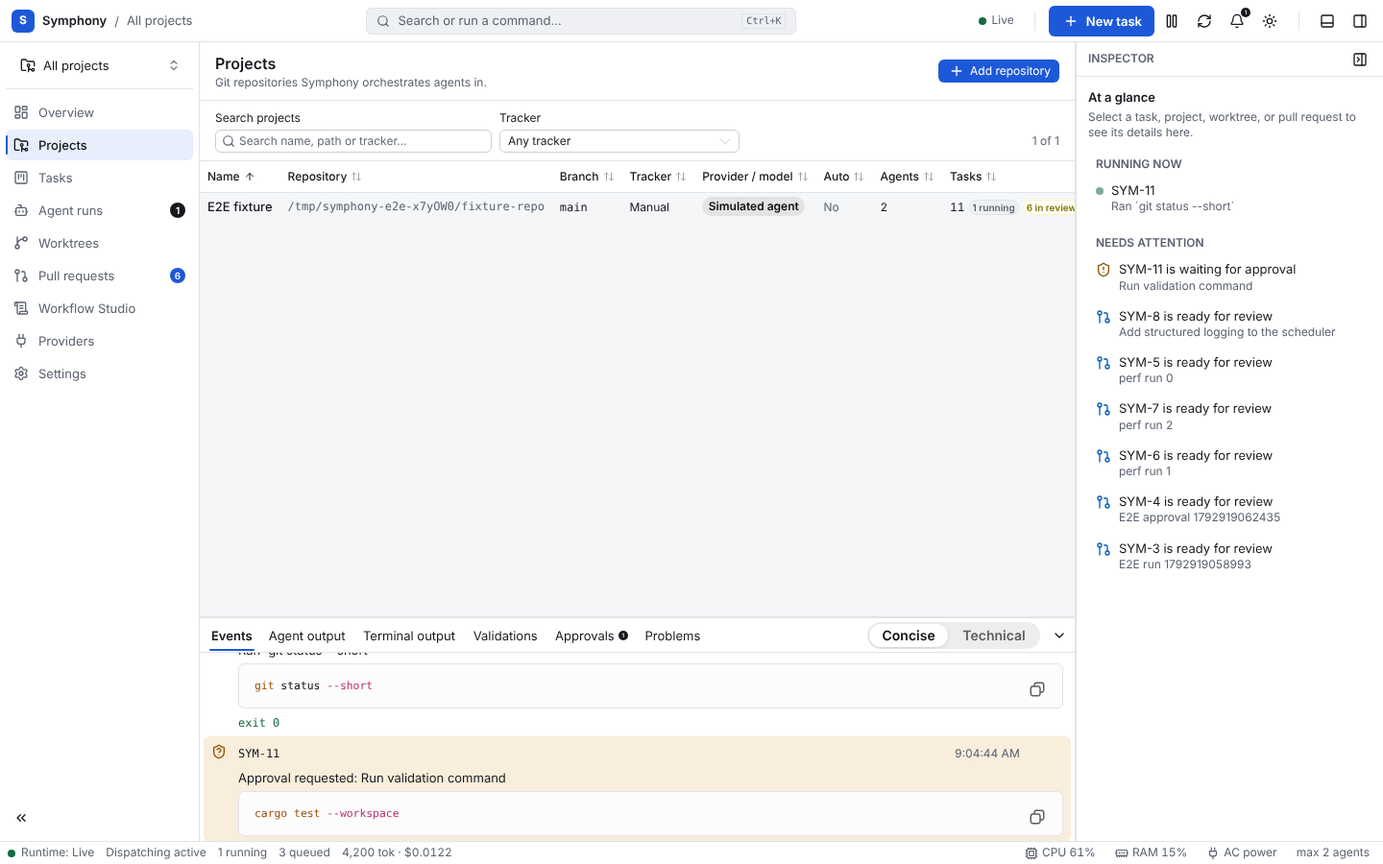
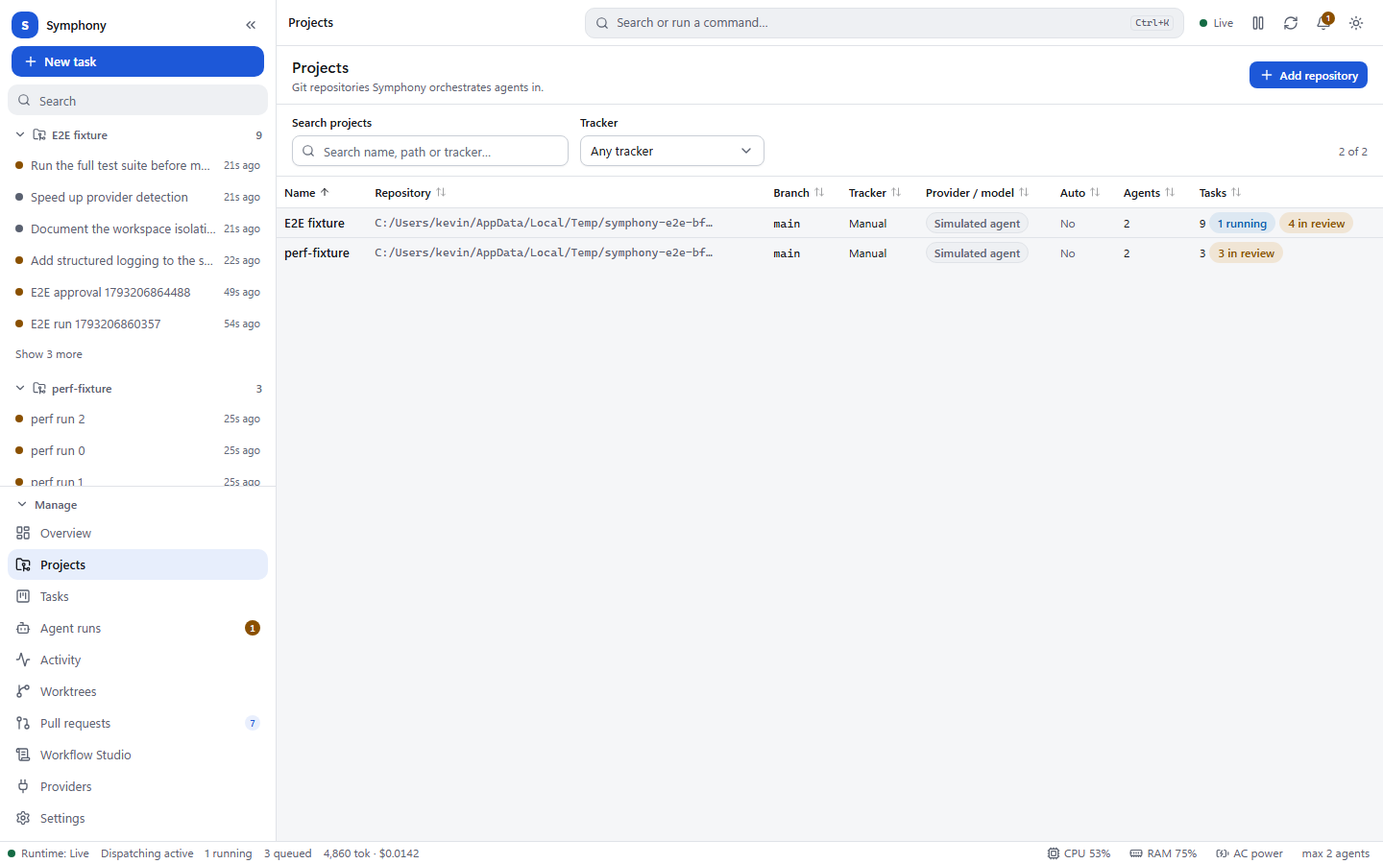
Document the new UI architecture and refresh screenshots
Rewrite the design-system guide (one component system, container-query
layout rules), update the architecture, contributing and README notes and the
changelog, and regenerate the documentation screenshots.

diff --git a/docs/DESIGN_SYSTEM.md b/docs/DESIGN_SYSTEM.md
@@ -1,18 +1,20 @@
 # Symphony Design System
 
 The design system lives in `packages/ui` and is shared by the desktop app and the mobile companion.
-It combines three component libraries under **one token source** and **one owner per component category**.
+It is **one component system**: shadcn/ui primitives (Radix UI + Tailwind CSS v4) driven by **one token source**.
+There is no second control library on the desktop: Fluent UI and the OpenAI Apps SDK UI were removed because
+three libraries with different sizing, breakpoints and CSS layers produced overlapping and clipped controls.
 
 ```
 packages/ui/src/
   tokens/tokens.css        single source of colour, typography, radius, density tokens
-  theme/fluentThemes.ts    Fluent UI v9 themes whose values reference the CSS tokens
-  providers/               SymphonyDesignProvider (theme, density, motion, locale, toaster)
-  primitives/              shadcn/ui components (generated with the shadcn CLI)
-  ai/                      AI-native components built on OpenAI Apps SDK UI
-  feedback/                confirm dialog, error state, loading rows, toasts, live announcer
+  providers/               SymphonyDesignProvider (theme, density, motion, locale, tooltips, toaster)
+  primitives/              shadcn/ui-style components on Radix UI (button, input, select, dialog, tabs, …)
+  ai/                      AI-native components (approval banner, event stream card, readiness card, badges)
+  feedback/                confirm dialog, error state, loading rows, toasts (sonner), live announcer
   data-display/            metric tile, key/value list, time & duration, virtual list, data table, telemetry
   layouts/                 page header, panel, status dot
+  legacy.tsx               Fluent theme bridge used only by the mobile companion
   i18n.ts                  strings owned by shared components (EN/SV)
   index.ts                 public entry point
 ```
@@ -32,27 +34,19 @@ packages/ui/src/
 | `--accent`, `--accent-hover`, `--accent-foreground`, `--accent-subtle` | Restrained blue for active actions |
 | `--destructive`, `--warning`, `--success`, `--info` (+ `-subtle`) | Semantic status only |
 | `--ring` | Focus ring |
+| `--overlay` | Modal and sheet scrim |
 | `--code-background`, `--diff-add`, `--diff-remove` | Code and diff surfaces |
-| `--font-sans` | Segoe UI Variable Text → Segoe UI → system |
-| `--font-display` | Segoe UI Variable Display |
-| `--font-mono` | Cascadia Code → Cascadia Mono → Consolas |
-| `--radius` | 6 px base radius |
+| `--font-sans`, `--font-display`, `--font-mono` | Segoe UI Variable stack, Cascadia mono |
+| `--radius` | 8 px base radius |
 | `--density-*` | Row/control height, gaps and base font size |
 
-The same variables feed every library:
+Tailwind CSS v4 reads them through `@theme inline` (`bg-surface`, `text-muted-foreground`, `border-border`,
+`bg-warning-subtle`, `font-mono`, `h-row`, …). Feature code uses only these classes; hard-coded hex or palette
+colours are not allowed outside `tokens.css`. The shadcn semantic names (`--card`, `--popover`, `--primary`,
+`--input`, `--ring`) are aliases of the Symphony tokens.
 
-- **Tailwind CSS v4** — `@theme inline` maps them to utilities (`bg-surface`, `text-muted-foreground`,
-  `border-border`, `bg-warning-subtle`, `font-mono`, `h-row`, …). Feature code uses only these classes;
-  hard-coded hex or palette colours are not allowed outside `tokens.css`.
-- **shadcn/ui** — the shadcn semantic names (`--card`, `--popover`, `--primary`, `--input`, `--ring`) are
-  aliases of the Symphony tokens.
-- **Fluent UI v9** — `fluentThemes.ts` derives brand ramps with `createDarkTheme/createLightTheme` and then
-  points surface, text, stroke, brand and status tokens at `var(--…)`. Fluent therefore switches theme
-  together with everything else and portals inherit it (`applyStylesToPortals`).
-- **OpenAI Apps SDK UI** — `applyDocumentTheme(theme)` sets the same `data-theme` attribute the tokens use.
-
-The palette is a graphite neutral scale with a single restrained blue accent. Semantic green, amber and
-red are used for status only. No gradients or glass effects are used; elevation is a subtle border plus
+The palette is a graphite neutral scale with a single restrained blue accent. Semantic green, amber and red are
+used for status only. No gradients or glass effects are used; elevation is a subtle border plus
 `--shadow-elevated` on floating surfaces.
 
 ## 2. `SymphonyDesignProvider`
@@ -63,89 +57,95 @@ red are used for status only. No gradients or glass effects are used; elevation 
 </SymphonyDesignProvider>
 ```
 
-- Resolves `system` against `prefers-color-scheme` (Windows light/dark setting) and follows live changes.
+- Resolves `system` against `prefers-color-scheme` and follows live changes.
 - Writes `data-theme`, `data-density`, `data-motion` and `lang` on `<html>`.
-- Provides the matching Fluent theme and wraps children in `AppsSDKUIProvider`.
-- Mounts the single app-wide Fluent `Toaster`; `useNotify()` dispatches toasts.
+- Provides the tooltip context and mounts the single app-wide `sonner` toaster; `useNotify()` dispatches toasts.
 - Exposes `useDesign()` (resolved theme, density, reduced motion, locale) and `useUiStrings()`.
 
-Reduced motion: when the OS requests it (or `motion="reduced"`), CSS animations and transitions are
-neutralised globally by `tokens.css`. Components avoid JavaScript animation loops.
+Reduced motion: when the OS requests it (or `motion="reduced"`), CSS animations and transitions are neutralised
+globally by `tokens.css`.
 
 Density: **compact** (default, IDE-like: 28 px rows, 13 px text) and **comfortable** (36 px rows, 14 px text).
-The density font is applied to `<body>`, not `<html>`: the root font size stays at 16 px so `rem`-based
-spacing (Tailwind, Apps SDK) matches Fluent's px-based controls. Tailwind's `text-sm`/`text-xs` and Fluent's
-`fontSizeBase300`/`fontSizeBase200` all resolve to `--density-font`/`--density-font-xs`, so body and caption
-text are the same size whichever library renders them.
+Tailwind's `text-sm`/`text-xs` resolve to `--density-font`/`--density-font-xs`.
 
 ### Cascade layers
 
-Apps SDK UI ships component CSS in `@layer components`. Each app imports its global stylesheet **first**
-(`main.tsx`) and that stylesheet starts with `@layer theme, base, components, utilities;`, so the layer order
-is fixed before any library CSS is injected. Otherwise `components` can be ordered below Tailwind's preflight
-(`base`) and Apps SDK buttons lose their padding, radius and colours.
+The app's global stylesheet starts with `@layer theme, base, components, utilities;` and imports Tailwind and
+`tokens.css`. There is no third-party component CSS, so the layer order cannot be disturbed.
 
-## 3. Component ownership
+## 3. Layout rules (these prevent the overlap and clipping bugs)
 
-Exactly one library owns each interaction category. Competing implementations are not rendered.
+1. **Container queries, not viewport breakpoints.** A form or table inside a side sheet or a resizable pane is
+   narrower than the window. Use `@container` on the parent and `@md:`/`@3xl:` variants (`FieldGrid`,
+   `DataTable`, settings sections). `sm:`/`md:`/`lg:` are only for shell-level decisions.
+2. **Controls never impose a minimum width.** `Input`, `Select`, `Combobox` and `MultiSelect` are `w-full min-w-0`;
+   the grid cell decides their width.
+3. **One scroller per region.** `DataTable` owns the only scroll container of a table. Low-priority columns hide by
+   the table's own width (`meta: { className: "hidden @3xl:table-cell" }`) instead of scrolling sideways.
+4. **Detail lives in a `Sheet`, not beside a table.** Master/detail views (Projects) open the detail in a side
+   sheet so the list keeps its full width.
+5. **Text wraps or truncates inside its box.** Header meta rows use `flex-wrap`, never `shrink-0`.
 
-| Category | Owner | Components |
-| --- | --- | --- |
-| App chrome & commands | Fluent UI v9 | `Toolbar`, `ToolbarButton`, `Button`, `Menu`/`MenuButton`, `CounterBadge`, `Divider` |
-| Tooltips | Fluent UI v9 | `Tooltip` (Apps SDK `Tooltip` is not used) |
-| Dialogs & confirmations | Fluent UI v9 | `Dialog` everywhere, `ConfirmDialog`; the command palette hosts shadcn `Command` inside a Fluent `Dialog` (shadcn `dialog` was intentionally removed) |
-| Forms | Fluent UI v9 | `Field`, `Input`, `Textarea`, `Dropdown`, `Combobox`, `Switch`, `SpinButton`, `Checkbox`, `RadioGroup` |
-| Status & progress | Fluent UI v9 | `MessageBar`, `Spinner`, `ProgressBar`, toasts |
-| Tabs | Fluent UI v9 | `TabList`/`Tab` |
-| Workspace layout | shadcn/ui | `Resizable*` (react-resizable-panels v4, persisted with `useDefaultLayout`) |
-| Command palette | shadcn/ui | `Command*` (cmdk) |
-| Context menus | shadcn/ui | `ContextMenu*` (right-click on rows and cards) |
-| Data tables | shadcn/ui + TanStack | `Table` primitives + `DataTable` (sorting, keyboard activation, windowing) |
-| Scroll areas, sheets, skeletons | shadcn/ui | `ScrollArea`, `Sheet`, `Skeleton` |
-| AI-native surfaces | OpenAI Apps SDK UI | `AiApprovalBanner`, `AiEventStreamCard`, `MergeReadinessCard`, `TaskStatusBadge`, `PhaseBadge`, `ProviderBadge`, `ApprovalStatusBadge`, `AiEmptyView`, `PromptComposerBox`, `LogModeSwitch`, `StreamingText`; `CodeBlock`, `Markdown`, `CopyButton`, `Badge`, `Alert`, `ShimmerText`, `EmptyMessage`, `SegmentedControl`, `Textarea` used inside them |
+## 4. Components
 
-shadcn components are installed with the shadcn CLI into `packages/ui/src/primitives` using
-`packages/ui/components.json` (style `new-york`, Tailwind v4 CSS variables, lucide icons). To add one:
+| Category | Components |
+| --- | --- |
+| Actions | `Button` (default, secondary, outline, ghost, subtle, destructive, link; sm/default/lg/icon), `ToggleGroup` (segmented control), `DropdownMenu`, `ContextMenu` |
+| Forms | `Field` (label, hint, error, `group` for radio groups), `FieldGrid`, `FormSection`, `Input` (with `icon`), `Textarea`, `Select`, `Combobox`, `MultiSelect`, `Switch`, `Checkbox`, `RadioGroup`/`RadioOption`, `Label` |
+| Overlays | `Dialog`, `ConfirmDialog` (alert dialog), `Sheet`, `Popover`, `Tooltip`/`Hint`, command palette (`Command`, cmdk) |
+| Feedback | `Alert`, `Badge`, `Spinner`, `Progress`, `Skeleton`, toasts |
+| Navigation | `Tabs` |
+| Data | `Table`, `DataTable` (TanStack Table + virtualization), `MetricTile`, `KeyValueList`, `VirtualList` |
+| Workspace | `ResizablePanelGroup` (react-resizable-panels), `ScrollArea`, `PageHeader`, `Panel` |
+| AI surfaces | `AiApprovalBanner`, `AiEventStreamCard`, `MergeReadinessCard`, `TaskStatusBadge`, `PhaseBadge`, `ProviderBadge`, `ApprovalStatusBadge`, `AiEmptyView`, `PromptComposerBox`, `LogModeSwitch`, `StreamingText`, `CodeBlock`, `Markdown` |
+
+`Select` forwards the `id`/`aria-*` that `Field` injects to its trigger (Radix `Select.Root` renders no element),
+so a field label always names the select. `Hint` wraps one child with a tooltip; `asLabel` also uses a string
+label as the child's accessible name (icon-only buttons).
+
+New shadcn components are added with the shadcn CLI into `packages/ui/src/primitives` using
+`packages/ui/components.json` (style `new-york`, Tailwind v4 CSS variables, lucide icons):
 
 ```bash
 cd packages/ui && pnpm dlx shadcn@latest add <component>
 ```
 
-then make sure generated imports use `../lib/utils` and that it does not duplicate a Fluent-owned category.
+Then make sure generated imports use `../lib/utils` and use only Symphony tokens.
 
-Apps SDK UI is used as a **component library only**; nothing depends on ChatGPT host globals.
-
-## 4. AI components
+## 5. AI components
 
 | Component | Purpose |
 | --- | --- |
 | `AiApprovalBanner` | Shows a pending command/file-change approval with the four runtime decisions (approve once, approve for session, decline, abort turn). Locks itself while a decision is in flight to prevent duplicate submissions. |
-| `ConfirmDialog` (feedback) | Fluent alert dialog for destructive actions. Fires `onConfirm` once per opening (a second click in the same frame is ignored) and stays locked while `pending`. |
-| `AiEventStreamCard` | One timeline entry. Uses `formatAgentEvent` to render agent messages (Markdown), command executions (code + exit code + output), file changes (paths + diffs), tool calls, approvals, errors and lifecycle events. Concise vs technical mode (event types, raw JSON-RPC payload). Memoized per event so streaming never re-renders existing entries. |
+| `ConfirmDialog` (feedback) | Alert dialog for destructive actions. Fires `onConfirm` once per opening and stays locked while `pending`. |
+| `AiEventStreamCard` | One timeline entry. Uses `formatAgentEvent` to render agent messages (Markdown), command executions (code + exit code + output), file changes (paths + diffs), tool calls, approvals, errors and lifecycle events. Concise vs technical mode. Memoized per event so streaming never re-renders existing entries. |
 | `MergeReadinessCard` | Evidence-backed 1–5 score with CI / validation / conflicts / security / reviewed comments breakdown, blockers and evidence. Approval is a separate explicit action and never merges. |
-| `TaskStatusBadge`, `PhaseBadge`, `ProviderBadge` | Localized status chips; active phases shimmer (static under reduced motion). |
+| `TaskStatusBadge`, `PhaseBadge`, `ProviderBadge` | Localized status chips; active phases pulse (static under reduced motion). |
 | `AiEmptyView`, `PromptComposerBox`, `LogModeSwitch`, `StreamingText` | Agent empty states, prompt composition (Ctrl+Enter submits), log verbosity, live activity text. |
 
-## 5. Accessibility
+`Markdown` renders GitHub-flavoured Markdown with `react-markdown` (raw HTML is never rendered); `CodeBlock`
+has a named copy button and scrolls inside itself.
+
+## 6. Accessibility
 
 - Focus is always visible (`:focus-visible` ring on `--ring`).
 - Text tokens (`--foreground`, `--muted-foreground`, `--subtle-foreground` and the status colours) keep
-  4.5:1 against every surface of their theme, including their own `-subtle` tint. The Apps SDK's status
-  text and light code colours are mapped onto them through the SDK's own theme variables (`tokens.css`).
-- Icon-only buttons carry labels through Fluent `Tooltip relationship="label"` (on the button itself,
-  not a wrapper) or `aria-label`. Use `SdkCodeBlock`/`SdkMarkdown` from this package, not the SDK's
-  directly: their copy buttons are named.
-- Scroll containers without their own controls (diffs, logs, `VirtualList`) are focusable.
-- Audited with axe-core (WCAG 2.1 A/AA) on every view, light and dark. Known, accepted reports:
-  Fluent's focus sentinels (`data-tabster-dummy`, `aria-hidden-focus`) and CodeMirror's scroller,
-  whose editable content is the focus target.
-- Dialog focus management comes from Fluent `Dialog`; the palette is keyboard-first (cmdk).
+  4.5:1 against every surface of their theme, including their own `-subtle` tint.
+- Icon-only buttons carry an `aria-label` (use `Hint ... asLabel`).
+- Scroll containers without their own controls (diffs, logs, `VirtualList`, code blocks) are focusable.
+- Dialog focus management comes from Radix; the palette is keyboard-first (cmdk).
+- Tabs activate on mouse-down, focus or a plain click (`TabsTrigger` focuses on click).
 - Data tables expose `aria-sort`, rows are focusable and activate with Enter/Space.
 - `LiveAnnouncer` provides polite/assertive live regions; toasts announce with matching politeness.
 - Colour is never the only signal: status chips have text, readiness has a numeric score and `role="meter"`.
 
-## 6. Localization
+## 7. Localization
 
 Shared strings live in `packages/shared-types/src/i18n` (`en`, `sv`). Components in this package use
 `useUiStrings()`. Feature modules declare their own catalogues with `defineMessages({ en, sv })`, where the
 Swedish catalogue must have exactly the English shape (enforced by TypeScript).
+
+## 8. Mobile companion
+
+`apps/mobile` still renders some Fluent UI v9 controls. It wraps its tree in `FluentBridge` from
+`@symphony/ui/legacy`, which maps the same tokens onto a Fluent theme. The desktop app does not import Fluent.

diff --git a/docs/UI_ARCHITECTURE.md b/docs/UI_ARCHITECTURE.md
@@ -18,7 +18,7 @@
 │      ├─ Batcher (100 ms) → event ring buffer (zustand) + targeted TanStack Query invalidation   │
 │      └─ fallback polling while the stream is down; throttled while the window is hidden        │
 │ TanStack Query cache = durable server state      zustand uiStore = presentation preferences    │
-│ DesktopShell (layouts/) + feature views (features/*) + design system (@symphony/ui)            │
+│ DesktopShell (layouts/) + feature views (features/*) + design system (@symphony/ui, shadcn)     │
 └───────────────────────────────────────────────────────────────────────────────────────────────┘
 ```
 
@@ -107,19 +107,20 @@ on broadcast lag), avoiding an HTTP connection.
 ```
 apps/desktop/src/
   app/          App, AppProviders, AppRouter (hash routes, lazy views), RuntimeGate, PreferencesBridge, messages
-  layouts/      DesktopShell, Sidebar, CommandBar, ContextInspector, ActivityDrawer, StatusBar
+  layouts/      DesktopShell, Sidebar, ThreadList, TopBar, StatusBar
   runtime/      RuntimeProvider, eventStore (ring buffer), invalidation map
   lib/          queries (TanStack hooks), queryKeys, i18n helpers
   store/        uiStore (persisted presentation state), safeStorage
   hooks/        useGlobalShortcuts, useFocusedTaskId
   components/   ErrorBoundary, DiffViewer
-  features/     overview · projects · tasks · agents · execution · worktrees · reviews · workflows ·
-                providers · settings · onboarding · command-palette
+  features/     composer · activity · overview · projects · tasks · agents · execution · worktrees · reviews ·
+                workflows · providers · settings · onboarding · command-palette
   test/         renderWithProviders (in-memory runtime), fixtures, setup
 ```
 
-Routes: `/overview`, `/projects[/:projectId]`, `/tasks`, `/runs`, `/runs/:taskId`, `/worktrees`,
-`/reviews[/:reviewId]`, `/workflow`, `/providers`, `/settings`. The last route is restored on launch.
+Routes: `/` (prompt composer), `/overview`, `/projects[/:projectId]`, `/tasks`, `/runs`, `/runs/:taskId`
+(a task as a thread), `/activity`, `/worktrees`, `/reviews[/:reviewId]`, `/workflow`, `/providers`, `/settings`.
+The app always opens on the composer.
 
 The app uses a data router (`createHashRouter`; tests use `createMemoryRouter`), which lets a view block
 navigation while it holds unsaved edits (`useBlocker` in Workflow Studio). Every feature view is a lazily
@@ -130,10 +131,12 @@ loaded chunk; the CodeMirror editor is a separate lazy chunk loaded only by Work
 | View | Highlights |
 | --- | --- |
 | Overview | Metrics from the snapshot/tasks, live sessions, pending approvals (decide inline), persisted + live activity. |
-| Projects | Repository list/detail/edit, guided Add repository (native folder picker in Tauri, runtime validation, checkout-root resolution), delete with confirmation (409 while running). |
+| Projects | Full-width repository table (columns drop by container width) with the selected project's settings in a side sheet, guided Add repository (native folder picker in Tauri, runtime validation, checkout-root resolution), delete with confirmation (409 while running). |
 | Tasks | 9-column Kanban (dnd-kit, keyboard + menu moves validated by the shared state machine before any request) and a data table; New task dialog (`auto_start`). |
 | Agent runs | One row per task by precedence (live > approval > retrying > queued > recent finished), grouping by status/provider/project, capability-gated actions. |
-| Live execution | Three resizable panels: context, live timeline (concise/technical), changes/validation/tool calls/usage/PR. The *Tool calls* tab pages the task's tool-call history (`GET /tasks/{id}/tool-calls`), refreshed only by events that can start or finish a tool call. |
+| Home / composer | Large prompt box with chips: repository (shows the base branch), provider + model, priority, labels, *Run now* / *Add to queue* (`auto_start`). The first line of the prompt is the title, the whole prompt the description; the identifier is generated. Recent threads below. The same composer opens in a dialog (Ctrl+N) from other views. |
+| Thread (`/runs/:taskId`) | Prompt, merged persisted + live timeline (concise/technical, kind filters, tail-following), pinned approvals, inline follow-up box (`POST /tasks/{id}/continue`, only after a run ended, 20 000 character limit) and a run-details panel (Changes, Validation, Tool calls, Usage, Pull request, Context). Wide windows dock the panel, narrow ones open it as a sheet. |
+| Activity | Cross-task events, scoped agent/terminal output, validations, approvals and problems (the former bottom dock). |
 | Worktrees | Worktree table with dirty state, diff viewer, "Open in Explorer" only in the embedded desktop host; no delete action. |
 | Pull requests | Evidence-backed readiness (1–5), blockers, diff with review comments; "Record human approval" is a separate confirmed action and never merges. |
 | Workflow Studio | CodeMirror 6 (Markdown + YAML front matter), debounced runtime validation with located diagnostics, effective config, prompt preview, Ctrl+S, revert, external-change detection, unsaved-changes guard. |
@@ -142,19 +145,19 @@ loaded chunk; the CodeMirror editor is a separate lazy chunk loaded only by Work
 
 ## 6. Shell
 
-- **Command bar** (below the native title bar — native decorations are kept for reliable drag, snap,
-  maximize and system controls): project breadcrumb, palette launcher, runtime connection status
-  (derived from the real stream/state), new task, pause/resume dispatching, refresh, approvals, theme,
-  drawer/inspector toggles.
-- **Sidebar**: collapsible (persisted), tooltips when collapsed, active indicator, project switcher, badges.
-- **Context inspector**: right resizable/collapsible panel for the selected task/project/worktree/PR.
-- **Activity drawer**: bottom dock with Events, Agent output, Terminal output (command executions of the
-  focused task — no arbitrary shell), Validations, Approvals and Problems.
+- **Sidebar** (collapsible, persisted): *New task*, a search field, tasks grouped by project as **threads**
+  (status dot, approval mark, relative time, collapsible groups) and a *Manage* group with the other views.
+  Collapsed it is an icon rail with tooltips.
+- **Top bar** (below the native title bar - native decorations are kept for reliable drag, snap, maximize and
+  system controls): current view, palette launcher, runtime connection status (derived from the real
+  stream/state), pause/resume dispatching, refresh, approvals popover, theme.
 - **Status bar**: connection, scheduler, counts, tokens/cost and hardware telemetry from the runtime
   snapshot (refreshed by events and every 15 s while visible; it never probes the GPU).
+- There are no nested resizable panel groups at shell level; each view owns its layout (resizable panes only
+  where a view needs them, e.g. Workflow Studio, Pull requests).
 
-Keyboard: Ctrl+K palette · Ctrl+N new task · Ctrl+P projects · Ctrl+R refresh data · Ctrl+B sidebar ·
-Ctrl+J activity drawer · Ctrl+I inspector.
+Keyboard: Ctrl+K palette - Ctrl+N new task - Ctrl+P projects - Ctrl+R refresh data - Ctrl+B sidebar -
+Ctrl+J run-details panel - F1 shortcut help.
 
 ## 7. State rules
 

diff --git a/CHANGELOG.md b/CHANGELOG.md
@@ -10,6 +10,17 @@ one. The HTTP API is versioned separately (`API_VERSION`, see `CONTRIBUTING.md`)
 
 ### Added
 
+- **Thread-first desktop UI (Codex-style)**: the app opens on a prompt composer. One prompt box plus chips
+  for repository (with its base branch), provider and model (with install state), priority, labels and
+  *Run now* / *Add to queue* creates a task; the first line becomes the title and the whole prompt the
+  description. Tasks appear in the sidebar as threads grouped by project (status dots, approval marks,
+  search). A thread shows the prompt, the live timeline, pending approvals, an inline follow-up box
+  (continue a finished run in the same worktree) and a run-details panel (changes, validation, tool
+  calls, usage, pull request, context). The previous Overview, Projects, Tasks, Agent runs, Worktrees,
+  Pull requests, Workflow Studio, Providers and Settings views are kept under *Manage*, plus a new
+  *Activity* view with the former bottom dock (events, agent/terminal output, validations, approvals,
+  problems).
+
 - **Model discovery**: provider detection asks the installed CLI which models it offers (Codex
   `model/list`, `opencode models`) instead of relying on a built-in list, cached for 30 minutes per
   binary and version (a forced refresh re-reads it). A configured provider default that the CLI no
@@ -61,6 +72,12 @@ one. The HTTP API is versioned separately (`API_VERSION`, see `CONTRIBUTING.md`)
 
 ### Fixed
 
+- Project settings: the Provider dropdown no longer overlaps the Model field, the form no longer shows a
+  stray horizontal scrollbar, and the project table is no longer clipped next to the detail pane
+  (`min-width: 250px` controls in a viewport-breakpoint grid, nested scrollers, fixed-width detail pane).
+- The Concise / Technical log toggle renders as a proper segmented control instead of two mashed labels.
+- A task's header badges wrap under a long title instead of running under the action buttons.
+
 - The build was broken on `main` after two dependency updates: the access token generator now uses the
   `rand` 0.10 API, and the API client generator is back on TypeScript 6 (`@hey-api/openapi-ts` needs
   its compiler API); `pnpm generate:api` now says so instead of crashing when another major is installed.
@@ -84,6 +101,17 @@ one. The HTTP API is versioned separately (`API_VERSION`, see `CONTRIBUTING.md`)
 - `ctutils` 0.4.3 → 0.4.4 (RUSTSEC-2026-0385, non-constant-time comparisons; pulled in by `digest`).
 
 ### Changed
+
+- **One component system on the desktop**: Fluent UI and the OpenAI Apps SDK UI are removed from the
+  desktop app and the shared UI package in favour of shadcn/ui (Radix) with Tailwind tokens, so controls,
+  dialogs and tabs share one sizing, one set of breakpoints and one CSS layer order. Markdown uses
+  `react-markdown` directly. The mobile companion keeps Fluent through `@symphony/ui/legacy`.
+- **Layouts are container-driven**: forms, tables and cards size from their own container (`@container`)
+  instead of the viewport. The project table hides low-priority columns by its width and project settings
+  open in a side sheet.
+- The right-hand inspector and the permanent bottom dock are gone; their content lives in the thread's
+  run-details panel and in the Activity view. Keyboard shortcut `Ctrl+J` toggles the run-details panel
+  (`Ctrl+I` is no longer used).
 
 - The default model is empty by default, meaning each provider's own default; making a provider the
   global default no longer copies another provider's model. Cost estimates use current per-family prices

diff --git a/README.md b/README.md
@@ -21,9 +21,9 @@ Symphony Desktop is a local-first autonomous coding orchestration platform inspi
   - Canonical path containment and symlink escape prevention.
   - Per-task Git worktree creation (`git worktree add -B`), dirty-worktree guards, lifecycle hooks (`after_create`, `before_run`, `after_run`, `before_remove`), and automated validation command execution.
 - **Symphony Desktop 2.0 UI (`apps/desktop`, `packages/ui`)** — see [docs/UI_ARCHITECTURE.md](./docs/UI_ARCHITECTURE.md) and [docs/DESIGN_SYSTEM.md](./docs/DESIGN_SYSTEM.md):
-  - Modular desktop shell: command bar, collapsible sidebar with project switcher, Ctrl+K command palette, resizable context inspector, bottom activity drawer (events, agent/terminal output, validations, approvals, problems) and a status bar with live hardware telemetry.
+  - Thread-first desktop shell, modelled on the ChatGPT Codex app: a prompt composer on the home screen (repository and base branch, provider/model, priority, labels, run now or queue), tasks listed as threads grouped by project, each thread with the prompt, live timeline, inline approvals, follow-up box and a run-details panel (changes, validation, tool calls, usage, pull request, context). Ctrl+K command palette, an Activity view (events, agent/terminal output, validations, approvals, problems) and a status bar with live hardware telemetry.
   - Views: Overview, Projects (guided Add Repository with native folder picker), Tasks (9-state Kanban with state-machine-validated drag and drop + data table), Agent Runs (control center), Live Execution workspace, Worktrees, Pull Request Review Center (1–5 merge readiness), Workflow Studio (CodeMirror + runtime validation/preview), Providers, Settings.
-  - One token source shared by **Fluent UI React v9** (Windows-native controls, dialogs, menus, forms), **shadcn/ui** (resizable panels, command palette, data tables, context menus) and **OpenAI Apps SDK UI** (AI-native approval, event, markdown, code and readiness surfaces); dark/light/system themes, compact/comfortable density, reduced motion, English and Swedish.
+  - One component system, **shadcn/ui on Radix UI with Tailwind v4**, driven by one token source (controls, dialogs, sheets, menus, data tables, command palette, AI-native approval, event, markdown, code and readiness surfaces); dark/light/system themes, compact/comfortable density, reduced motion, English and Swedish.
   - OpenAPI 3.1 document generated from the Axum routes (`utoipa-axum`), TypeScript types and SDK generated from it with Hey API; CI checks freshness and breaking changes. Authenticated SSE streaming with resume, dedupe and reconnection.
 - **Hardware-Aware Windows 11 Execution (`symphony-platform`)**:
   - Optimized for hybrid laptops (e.g., ASUS ROG Zephyrus G16 with AMD Ryzen AI 9 HX 370 + Radeon 890M + RTX 4070).
@@ -58,7 +58,7 @@ OpenAI-Symphony-Rust/
 ├── packages/
 │   ├── shared-types/       # Rust-generated API contracts, state machine table, EN/SV i18n
 │   ├── api-client/         # Typed HTTP client, authenticated SSE, Tauri IPC bridge (`SymphonyClient`)
-│   └── ui/                 # Symphony design system: tokens, Fluent v9 + shadcn/ui + Apps SDK UI
+│   └── ui/                 # Symphony design system: tokens, shadcn/ui (Radix) components, AI surfaces
 ├── tools/
 │   └── api-generator/      # Hey API generator for packages/shared-types (pinned to TypeScript 6)
 ├── WORKFLOW.md             # Repository Symphony workflow configuration

diff --git a/AGENTS.md b/AGENTS.md
@@ -17,7 +17,7 @@ When operating inside this repository (whether dispatched by Symphony Desktop it
 - `tools/api-generator`: the Hey API generator behind `pnpm generate:api`; kept on TypeScript 6 because the generator needs the TypeScript 6 compiler API (see `docs/PRODUCTION_READINESS.md` §5).
 - `packages/shared-types`: generated API contracts (never hand-edit `src/generated/`): Hey API types/SDK/fetch client from the OpenAPI document (`@symphony/shared-types/api`) and the Rust task state machine; state-machine helpers, EN/SV translations.
 - `packages/api-client`: `SymphonyClient` (wraps the generated SDK), the central API configuration for desktop/local/remote runtimes (`src/config/apiConfig.ts`), authenticated SSE streaming, Tauri IPC bridge; integration tests run against `symphony-cli`.
-- `packages/ui`: Symphony design system (tokens, `SymphonyDesignProvider`, Fluent v9 + shadcn/ui primitives + Apps SDK UI AI components). See `docs/DESIGN_SYSTEM.md` for component ownership.
+- `packages/ui`: Symphony design system (tokens, `SymphonyDesignProvider`, shadcn/ui + Radix primitives and AI components; Fluent only in `legacy.tsx` for the mobile companion). See `docs/DESIGN_SYSTEM.md` for component ownership.
 - `apps/desktop`: Tauri 2 Windows 11 desktop application (`src/app`, `src/layouts`, `src/features/*`; see `docs/UI_ARCHITECTURE.md`).
 - `apps/mobile`: iOS/Mobile remote companion application.
 
@@ -46,7 +46,7 @@ succeeded (see `CONTRIBUTING.md`, "Native Windows vs. Browser Testing").
 
 - Never weaken `validate_workspace_path` or `workspace_key_for_identifier` in `crates/symphony-workspaces`.
 - Never remove tracker environment variable scrubbing (`SECRET_ENV_VARS_TO_STRIP`) when spawning agent subprocesses.
-- Preserve full compatibility with `@openai/apps-sdk-ui` and `@fluentui/react-components` in `packages/ui` and `apps/desktop`.
+- Build desktop UI only from `packages/ui` (shadcn/ui + Radix + Tailwind tokens); do not add Fluent UI or another component library to `apps/desktop`. Lay out forms and tables with container queries, not viewport breakpoints (see `docs/DESIGN_SYSTEM.md` §3).
 - Never weaken API authentication, the CORS allowlist, the credential key allowlist, or the Tauri capability allow-list; never add an IPC command that runs arbitrary commands or touches arbitrary paths.
 - Never widen `tool_policy.rs` (agent tools run with the host's tokens, outside the approval gate) without tests that show what the new operation can do; there is deliberately no merge operation anywhere.
 - Never weaken the credential vault (no plaintext/XOR fallback, no silent replacement of an unreadable vault) or `secure_fs` (owner-only DACL / `0600`); write secret-bearing files only through it.

diff --git a/CONTRIBUTING.md b/CONTRIBUTING.md
@@ -128,8 +128,8 @@ A successful Tauri build alone proves compilation, not runtime behaviour; say wh
 
 - **No Authoritative State in UI**: Keep all task scheduling, retry backoff, and state transitions inside `crates/symphony-orchestrator` and `crates/symphony-core`.
 - **Use Authentic Design System Components**:
-  - Use `@fluentui/react-components` for application shell, navigation, dialogs, and settings forms.
-  - Use `@openai/apps-sdk-ui` (`Alert`, `Badge`, `Button`, `CodeBlock`, `Markdown`, `Textarea`, `Tooltip`, `Popover`, `EmptyMessage`, `SegmentedControl`, `ShimmerText`) for AI-facing surfaces.
+  - Use the components exported by `@symphony/ui` (shadcn/ui on Radix: `Button`, `Field`, `Input`, `Select`, `Dialog`, `Sheet`, `Tabs`, `Alert`, `Badge`, `ToggleGroup`, …) for every desktop surface, including AI-facing ones (`AiApprovalBanner`, `AiEventStreamCard`, `Markdown`, `CodeBlock`).
+  - Size layouts from their container (`@container` + `@md:`), never from the viewport, so forms and tables fit side sheets and resizable panes.
 - **Database changes** are forward-only migrations: add `crates/symphony-storage/migrations/NNNN_name.sql`,
   list it in `MIGRATIONS` and raise `SCHEMA_VERSION`; never edit an applied migration. Add a test that opens a
   database in the previous schema (see `crates/symphony-storage/tests/migrations.rs`) and shows nothing is lost.

diff --git a/ARCHITECTURE.md b/ARCHITECTURE.md
@@ -59,8 +59,8 @@ In short:
   runtime) or authenticated SSE with `Last-Event-ID` resume (attached/remote).
 - **State**: durable data in TanStack Query (invalidated by events, fallback polling when the stream is
   down); presentation preferences in a persisted zustand store.
-- **Design system**: one token source (`packages/ui/src/tokens/tokens.css`) feeding Tailwind v4, shadcn/ui,
-  Fluent UI v9 and OpenAI Apps SDK UI, coordinated by `SymphonyDesignProvider`.
+- **Design system**: one token source (`packages/ui/src/tokens/tokens.css`) feeding Tailwind v4 and the shadcn/ui (Radix)
+  components, coordinated by `SymphonyDesignProvider`.
 
 ## 4. Hardware-Aware Scheduling (Windows 11 Hybrid Laptops)
 
